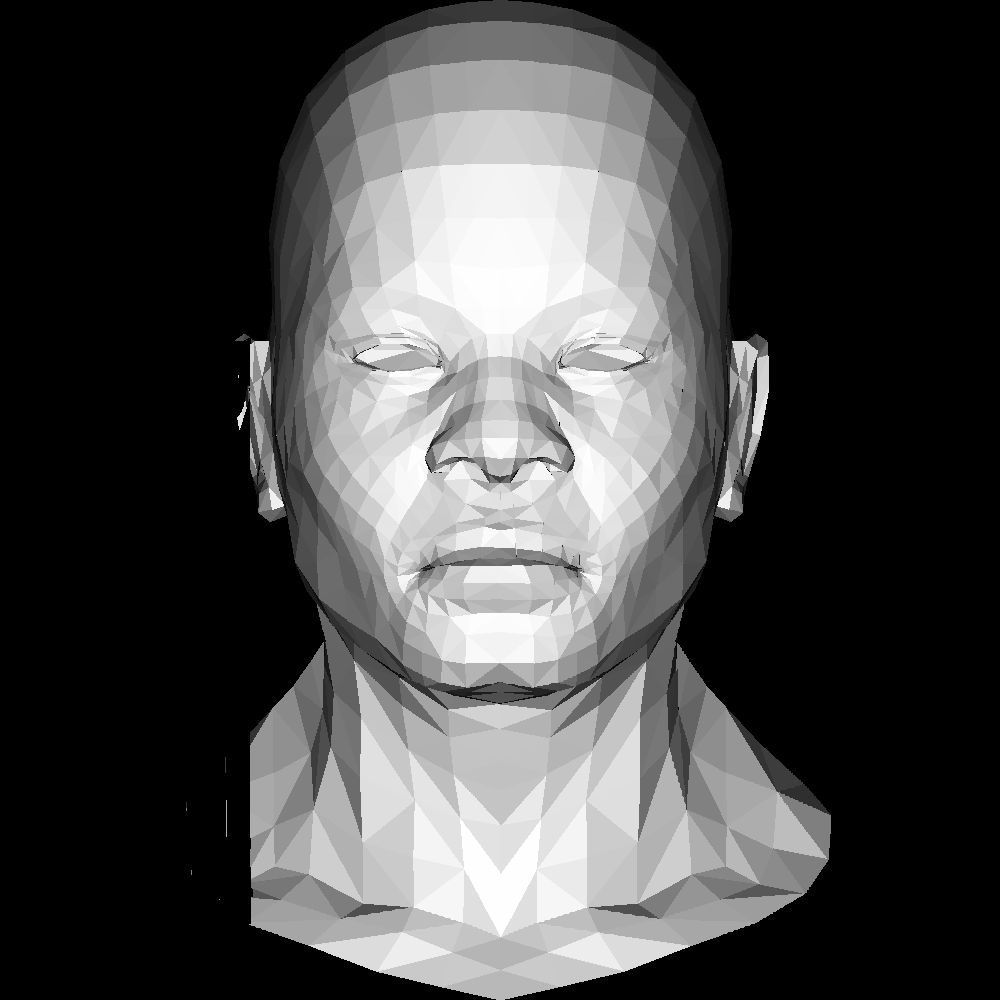
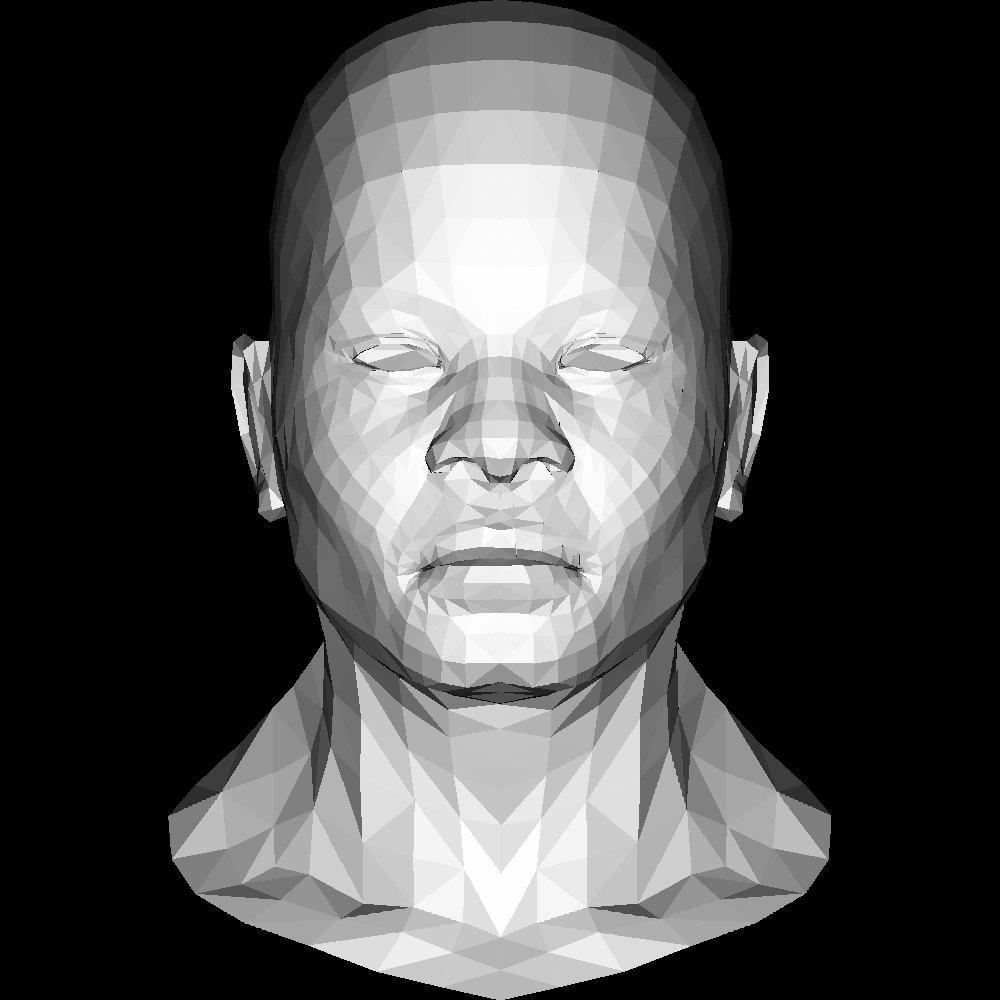
fix bug lession3

Changed region(s): [[0.155, 0.744, 0.279, 0.93], [0.217, 0.341, 0.248, 0.465]]

diff --git a/lesson3/lession3_zbuffer.py b/lesson3/lession3_zbuffer.py
@@ -41,8 +41,8 @@ def draw_tri_barycentric_zbuf(v0, v1, v2, zbuf, width, height, draw, color, debu
                 if debug == -1:
                     print("z: ", z)
                     print("z_buf: ", zbuf[int(x+y*width)])
-                if z > zbuf[(x+width+(y+height-1)*width)]:
-                    zbuf[(x+width+(y+height-1)*width)] = z
+                if z > zbuf[(x+width+(y+height)*2*width)]:
+                    zbuf[(x+width+(y+height)*2*width)] = z
                     draw_point(x/width, y/height, width, height, draw, color)
                     # print("draw")
                     num += 1
